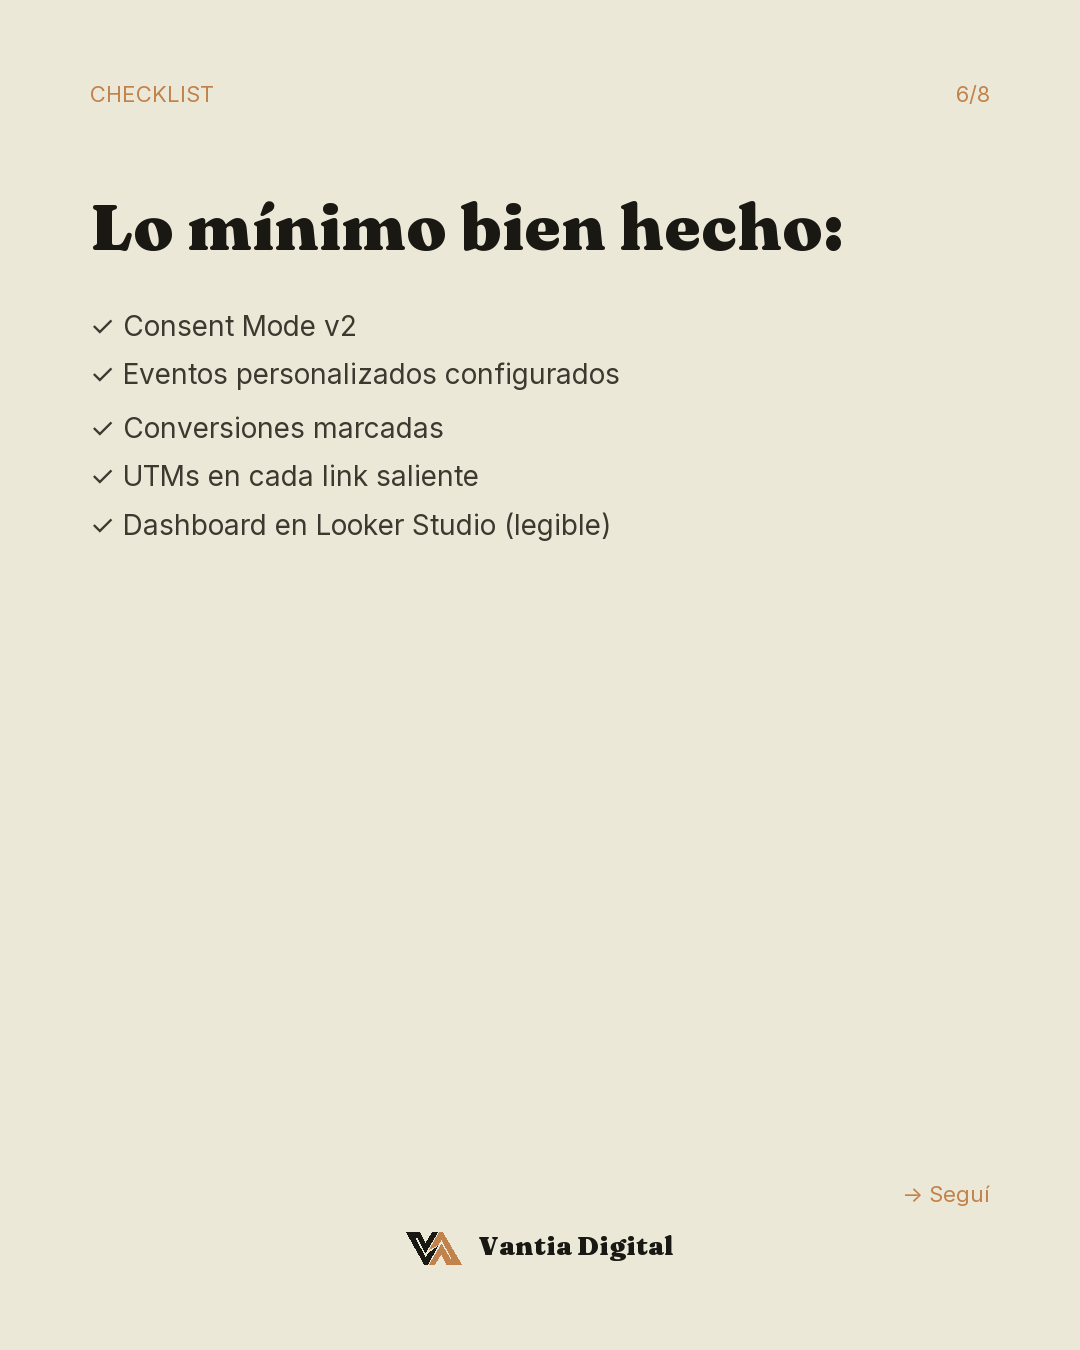
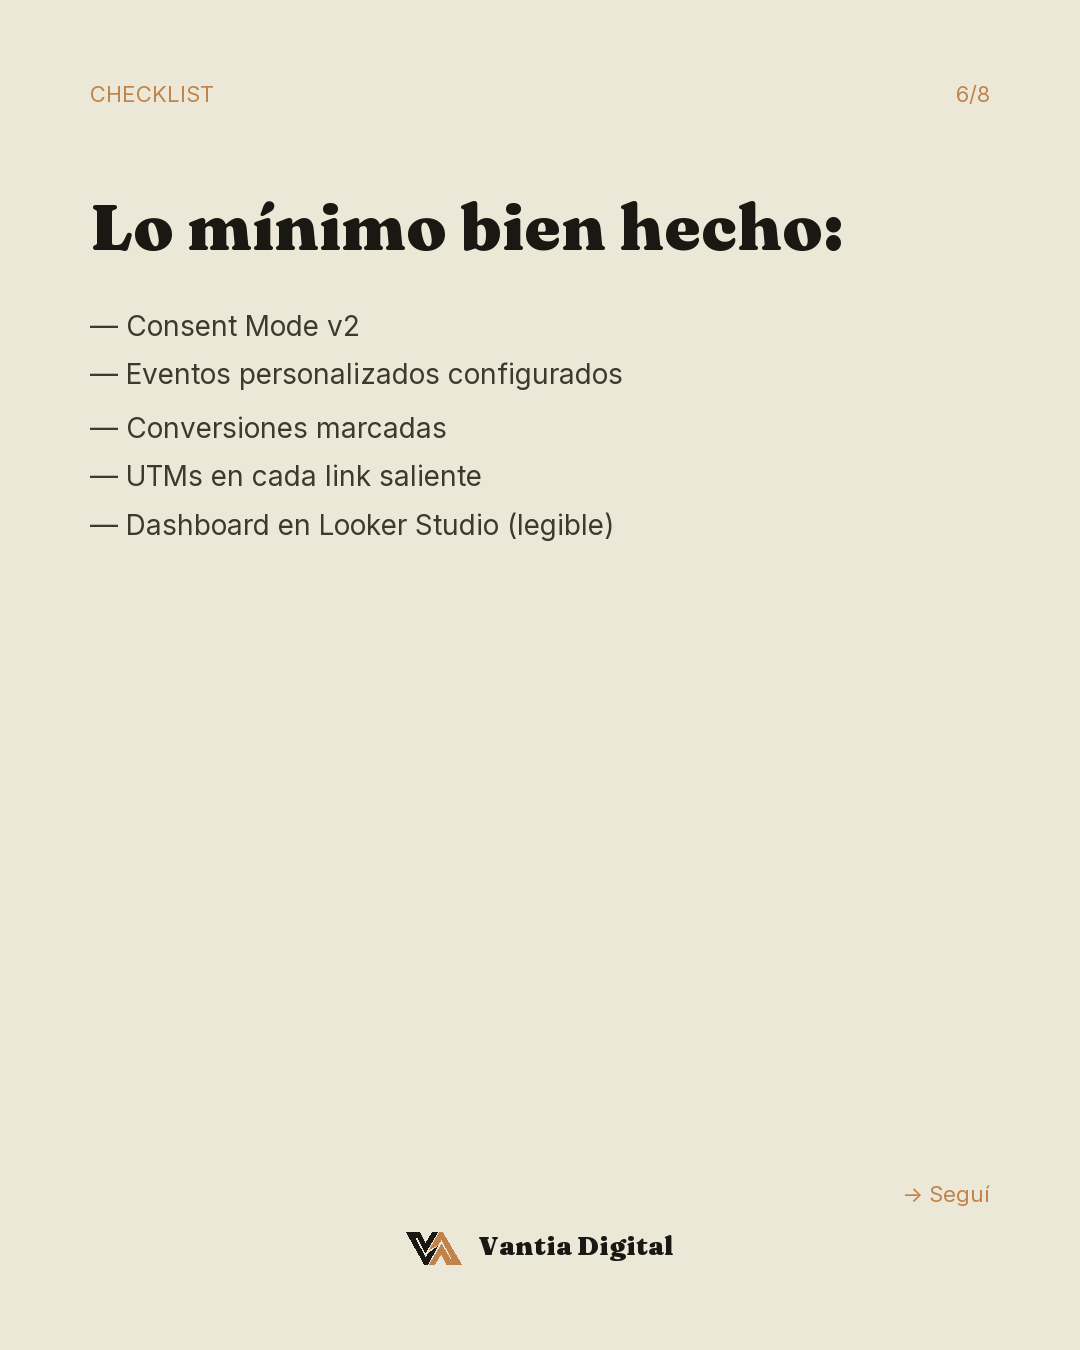
style(content): quitar emojis pictográficos "estilo whatsapp"
Los emojis 📍 🕒 🌐 y ✓ del checklist del carrusel GA4 leían como
contenido generado por IA y rompían la sobriedad de la marca.

- pages/contacto.html: bloque de ubicación/horario/modalidad sin
  emojis prefijo. Texto plano alineado a la jerarquía tipográfica.
- scripts/generate_ig_assets.py: checkmarks ✓ del slide 6 del
  carrusel GA4 reemplazados por em-dashes "—" (signature visual
  Vantia).
- assets/downloads/instagram/carruseles/ga4/slide-06.png:
  regenerado con dashes.

Regla persistida en memoria del agente (no_emoji_icons.md):
nunca volver a usar emojis pictográficos en outputs visibles de
Vantia (web, posts, copy, scripts que generan imágenes).

Changed region(s): [[0.0917, 0.2178, 0.5806, 0.4044]]

diff --git a/pages/contacto.html b/pages/contacto.html
@@ -127,9 +127,9 @@
             <p>Cuanto más contexto nos des sobre tu proyecto, mejor será nuestra primera respuesta. Si tenés métricas actuales, links o documentación, sumalas al mensaje.</p>
 
             <ul class="contact-info__list" style="margin-top: var(--space-md);">
-              <li>📍 Barcelona, España</li>
-              <li>🕒 Lun–Vie · 09:00–18:00 CET</li>
-              <li>🌐 Trabajamos remoto con clientes globales</li>
+              <li>Barcelona, España</li>
+              <li>Lun a Viernes · 09:00–18:00 CET</li>
+              <li>Trabajamos remoto con clientes globales</li>
             </ul>
           </aside>
 

diff --git a/scripts/generate_ig_assets.py b/scripts/generate_ig_assets.py
@@ -280,11 +280,11 @@ GA4 = [
                "Configurá UTM en cada link de tu Instagram, LinkedIn, mailings.",
                "Así sabés qué red trae tráfico que convierte."]),
     dict(idx=6, top_label="CHECKLIST", big="Lo mínimo bien hecho:",
-         body=["✓ Consent Mode v2",
-               "✓ Eventos personalizados configurados",
-               "✓ Conversiones marcadas",
-               "✓ UTMs en cada link saliente",
-               "✓ Dashboard en Looker Studio (legible)"]),
+         body=["— Consent Mode v2",
+               "— Eventos personalizados configurados",
+               "— Conversiones marcadas",
+               "— UTMs en cada link saliente",
+               "— Dashboard en Looker Studio (legible)"]),
     dict(idx=7, top_label="REALIDAD", big="El 70% de las PYMES tiene mal al menos 2 de estas 5.",
          body=["Y muchas veces el problema no lo sabés hasta que mirás los reportes en serio.",
                "Si nunca auditaste tu GA4, es probable que estés tomando decisiones con datos basura."]),